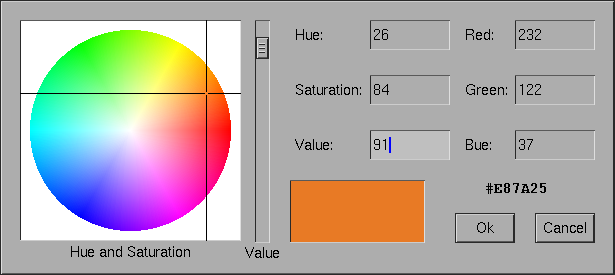
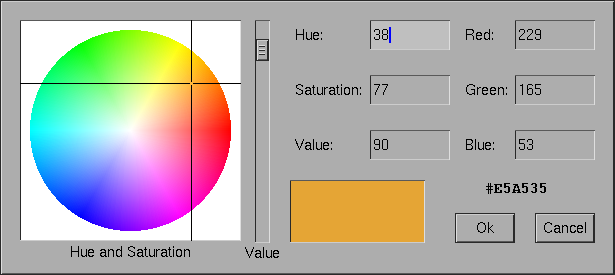
Typo fixed

diff --git a/lib/goodie_colchooser.c b/lib/goodie_colchooser.c
@@ -525,7 +525,7 @@ create_color_chooser_form( COLOR_CHOOSER * cc )
 	fl_set_object_callback( cc->green, rgb_input_cb, GREEN );
 	cc->green->u_vdata = cc;
 
-	fl_add_text( FL_NORMAL_TEXT, 460, 130, 55, 30, "Bue:" );
+	fl_add_text( FL_NORMAL_TEXT, 460, 130, 55, 30, "Blue:" );
     cc->blue = fl_add_input( FL_INT_INPUT, 515, 130, 80, 30, "" );
 	fl_set_object_callback( cc->blue, rgb_input_cb, BLUE );
 	cc->blue->u_vdata = cc;
